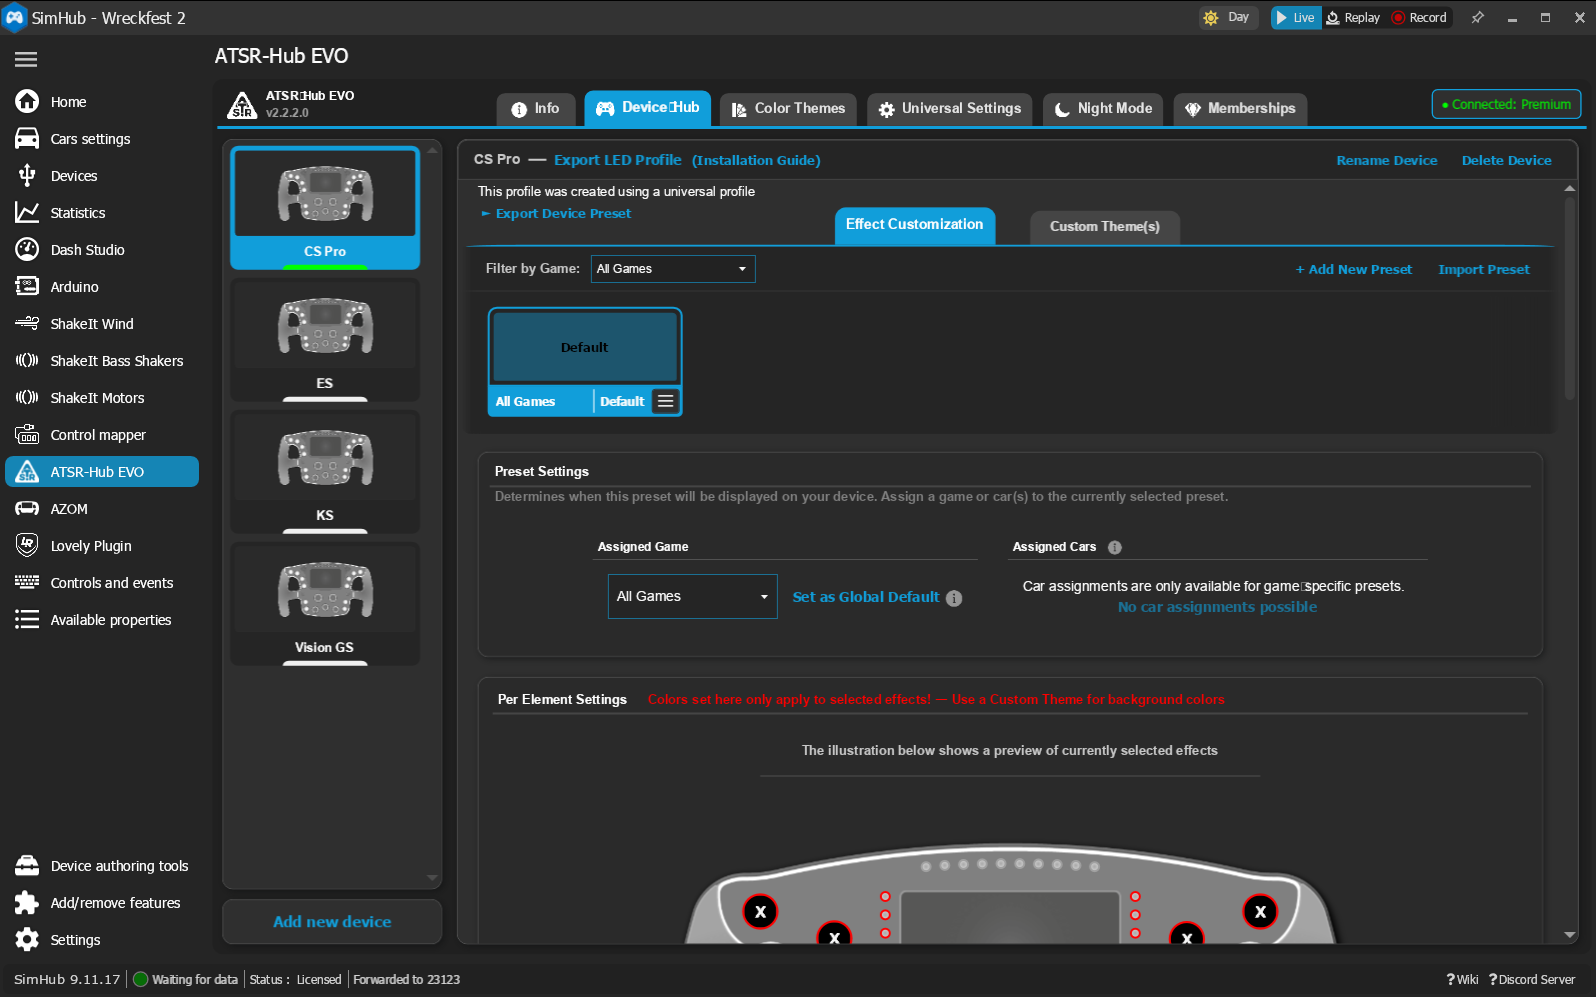
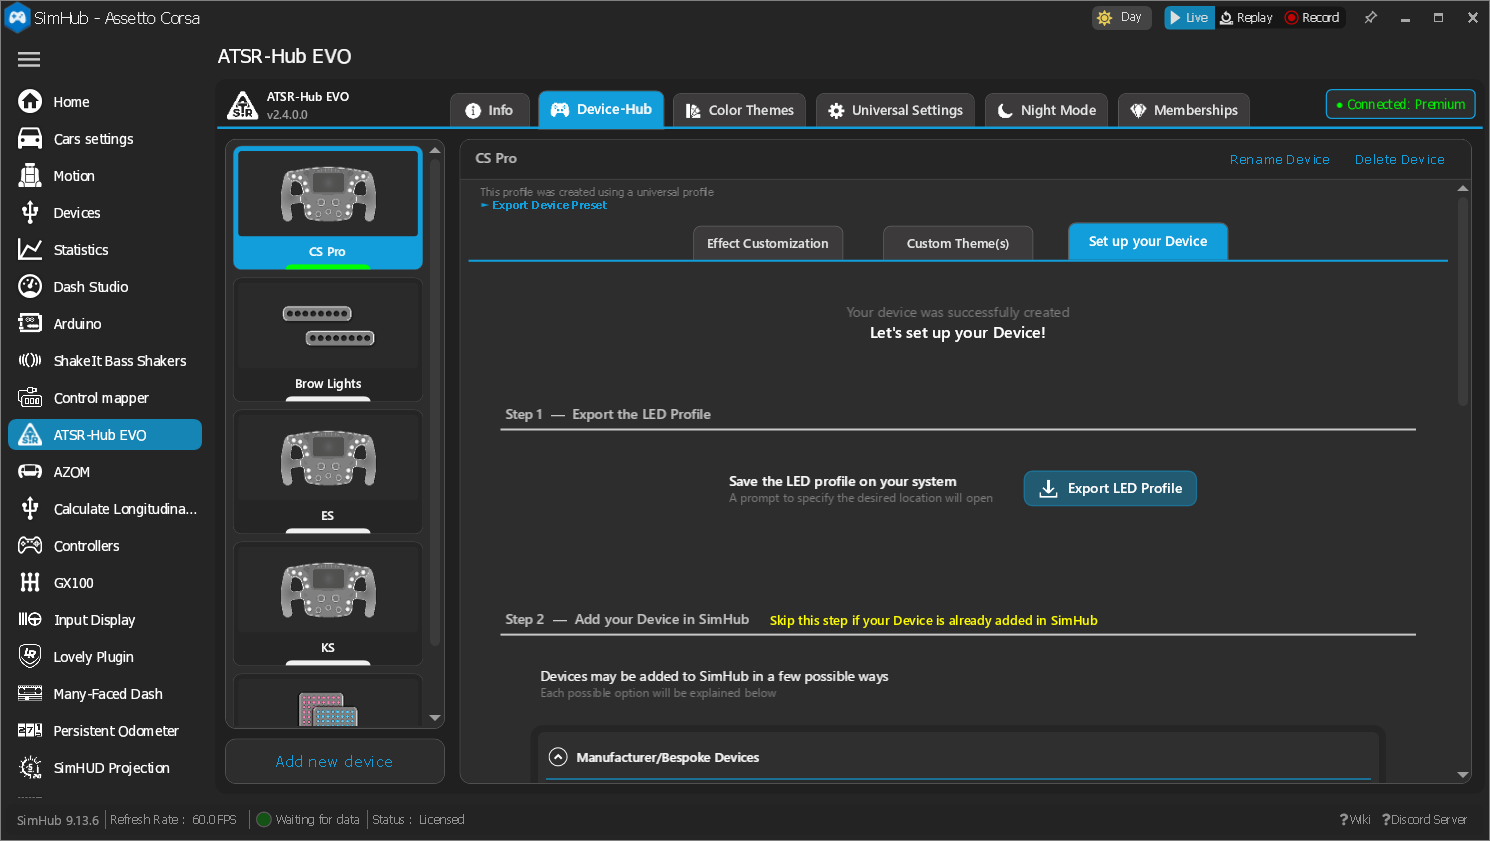
Fix ATSR directions

diff --git a/site/guides/atsr-led-profiles.md b/site/guides/atsr-led-profiles.md
@@ -68,7 +68,7 @@ left navigation as its own device, where you can tune presets and per-element ef
 
 ## 5 · Export the LED profile
 
-Open your new ATSR device and, on the **Device Hub** tab, click **Export LED
+Open your new ATSR device and, in the **Device Hub** tab, under **Setup Your Device** section, click **Export LED
 Profile**. Save the exported LED profile somewhere you can find it. You will need it for the next step.
 
 ![The ATSR device Effect Customization tab with the Export LED Profile link](/docs/ATSR/Setup4.png)
